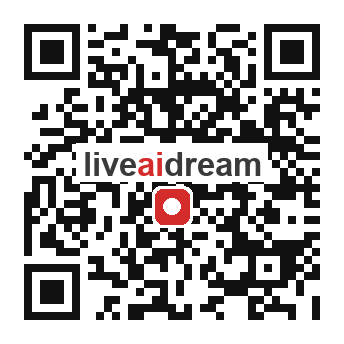
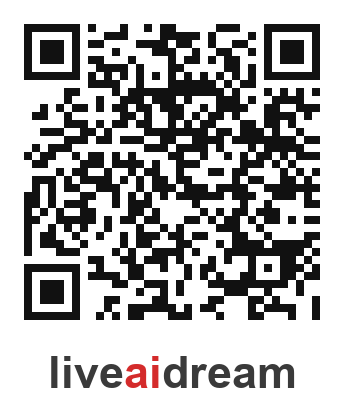
Move the wordmark out of the QR symbol, and put scan in the button row
The codes did not scan because the wordmark was drawn across the middle
of the symbol at full width, which wiped four modules of the vertical
timing pattern in column 6. Error correction restores damaged data
codewords; it cannot restore a function pattern, because the decoder
needs the timing pattern to establish the module grid before any error
correction runs. Enlarging the code and dropping the UTM -- the two
earlier attempts -- treated a symptom.

The wordmark now sits under the symbol, leaving the code untouched. This
is the arrangement already used by liveaidream-qr-industries-frame1.png
in the banner-studio library. The codes decode at every rendered width
from 82px up, where before they needed 124px and were unreliable above it.

The cover's scan tile joins the two game buttons on one row, and the
buttons shrink to two lines to make room.

diff --git a/catalogue-2026.html b/catalogue-2026.html
@@ -140,22 +140,25 @@ h3{font-family:var(--cond); font-weight:700; font-size:clamp(17px,2vw,21px); mar
 .slide.cover{justify-content:space-between; gap:clamp(16px,3vh,30px);
              padding-top:clamp(16px,3vh,34px)}
 .coverfoot{display:flex; flex-direction:column; gap:10px}
-.ladbar{display:flex; gap:14px; align-items:center; width:100%;
-        background:var(--black-soft); border:1px solid #333333; border-left:3px solid var(--red);
-        border-radius:2px; padding:10px 14px}
-.ladbar > img{width:clamp(88px,10vw,104px); height:auto; flex:0 0 auto; display:block;
-              background:#FFFFFF; padding:4px; border-radius:2px;
-              image-rendering:-webkit-optimize-contrast; image-rendering:crisp-edges}
+.ladbar{width:100%; background:var(--black-soft); border:1px solid #333333;
+        border-left:3px solid var(--red); border-radius:2px; padding:9px 14px}
 .ladbar b{font-family:var(--cond); font-weight:700; color:var(--gray-light);
-          font-size:clamp(12px,1.4vw,14px); letter-spacing:.15em; text-transform:uppercase;
-          line-height:1.3}
-.ladname{color:var(--white); font-size:clamp(16px,1.9vw,19px); letter-spacing:.08em}
-.plays{display:flex; flex-wrap:nowrap; gap:10px}
-.plays a{flex:1 1 0; min-width:0; text-align:center; font-family:var(--cond); font-weight:700;
-         font-size:clamp(12px,1.5vw,15px); letter-spacing:.08em; text-transform:uppercase;
-         color:#FFFFFF; background:var(--red); padding:13px 10px; border-radius:2px;
-         text-decoration:none; white-space:nowrap}
-.plays a:hover{background:var(--red-dark)}
+          font-size:clamp(11.5px,1.35vw,13.5px); letter-spacing:.14em; text-transform:uppercase;
+          line-height:1.35}
+.ladname{color:var(--white); font-size:clamp(14px,1.7vw,17px); letter-spacing:.07em;
+         white-space:nowrap}
+/* the scan tile and the two game buttons share one row */
+.plays{display:flex; flex-wrap:nowrap; gap:9px; align-items:stretch}
+.plays .scan{flex:0 0 auto; width:clamp(112px,13.5vw,130px); padding:5px; background:#FFFFFF;
+             border-radius:2px; display:block; line-height:0}
+.plays .scan img{width:100%; height:auto; display:block;
+                 image-rendering:-webkit-optimize-contrast; image-rendering:crisp-edges}
+.plays a:not(.scan){flex:1 1 0; min-width:0; display:flex; align-items:center; justify-content:center;
+         text-align:center; font-family:var(--cond); font-weight:700;
+         font-size:clamp(12px,1.45vw,14.5px); letter-spacing:.07em; text-transform:uppercase;
+         color:#FFFFFF; background:var(--red); padding:10px 8px; border-radius:2px;
+         text-decoration:none; line-height:1.2}
+.plays a:not(.scan):hover{background:var(--red-dark)}
 
 /* ---- tape photography ------------------------------------------------- */
 .phototrio{display:grid; grid-template-columns:repeat(4,1fr); gap:12px; margin-top:26px}
@@ -185,7 +188,7 @@ h3{font-family:var(--cond); font-weight:700; font-size:clamp(17px,2vw,21px); mar
 .work .w span{font-size:13.5px; font-weight:500; color:var(--gray-light); line-height:1.45; display:block; margin-top:3px}
 .ladqr{display:inline-flex; align-items:center; gap:11px; font-family:var(--cond); font-weight:700;
        font-size:12.5px; letter-spacing:.13em; text-transform:uppercase; color:var(--gray-light); line-height:1.35}
-.ladqr img{width:92px; height:92px; background:#FFFFFF; padding:5px; border-radius:2px; display:block;
+.ladqr img{width:104px; height:auto; background:#FFFFFF; padding:5px; border-radius:2px; display:block;
            image-rendering:pixelated}
 .ctas{display:flex; flex-wrap:wrap; gap:12px; margin-top:26px}
 .btn{display:inline-flex; align-items:center; gap:9px; text-decoration:none; border-radius:2px;
@@ -269,7 +272,7 @@ h3{font-family:var(--cond); font-weight:700; font-size:clamp(17px,2vw,21px); mar
   :root{--bar:70px}
   .g2,.g3,.g5{grid-template-columns:1fr}
   .phototrio{grid-template-columns:repeat(2,1fr); gap:14px}
-  .plays a{font-size:11.5px; letter-spacing:.04em; padding:13px 6px}
+  .plays a:not(.scan){font-size:11.5px; letter-spacing:.03em; padding:10px 5px}
   #where .ttl{display:none}
   .game{flex-direction:column; align-items:flex-start}
   .stats{gap:14px}
@@ -305,13 +308,15 @@ h3{font-family:var(--cond); font-weight:700; font-size:clamp(17px,2vw,21px); mar
          slide, because most readers never reach the last page. -->
     <div class="coverfoot">
       <div class="ladbar">
-        <img src="assets/qr-lad.png" alt="QR code to liveaidream.com" loading="lazy">
-        <b>Marketing strategy &amp; execution partner<br>
+        <b>Marketing strategy &amp; execution partner
            <span class="ladname">Live AI Dream</span></b>
       </div>
       <div class="plays">
-        <a href="https://liveaidream.com/go/aashirwad-ar" target="_blank" rel="noopener">Play AR Tape Game</a>
-        <a href="https://liveaidream.com/go/aashirwad-run" target="_blank" rel="noopener">Play Tape Roll Out</a>
+        <a class="scan" href="https://liveaidream.com" target="_blank" rel="noopener">
+          <img src="assets/qr-lad.png" alt="Scan for liveaidream.com" loading="lazy">
+        </a>
+        <a href="https://liveaidream.com/go/aashirwad-ar" target="_blank" rel="noopener">Play AR<br>Tape Game</a>
+        <a href="https://liveaidream.com/go/aashirwad-run" target="_blank" rel="noopener">Play Tape<br>Roll Out</a>
       </div>
     </div>
 
